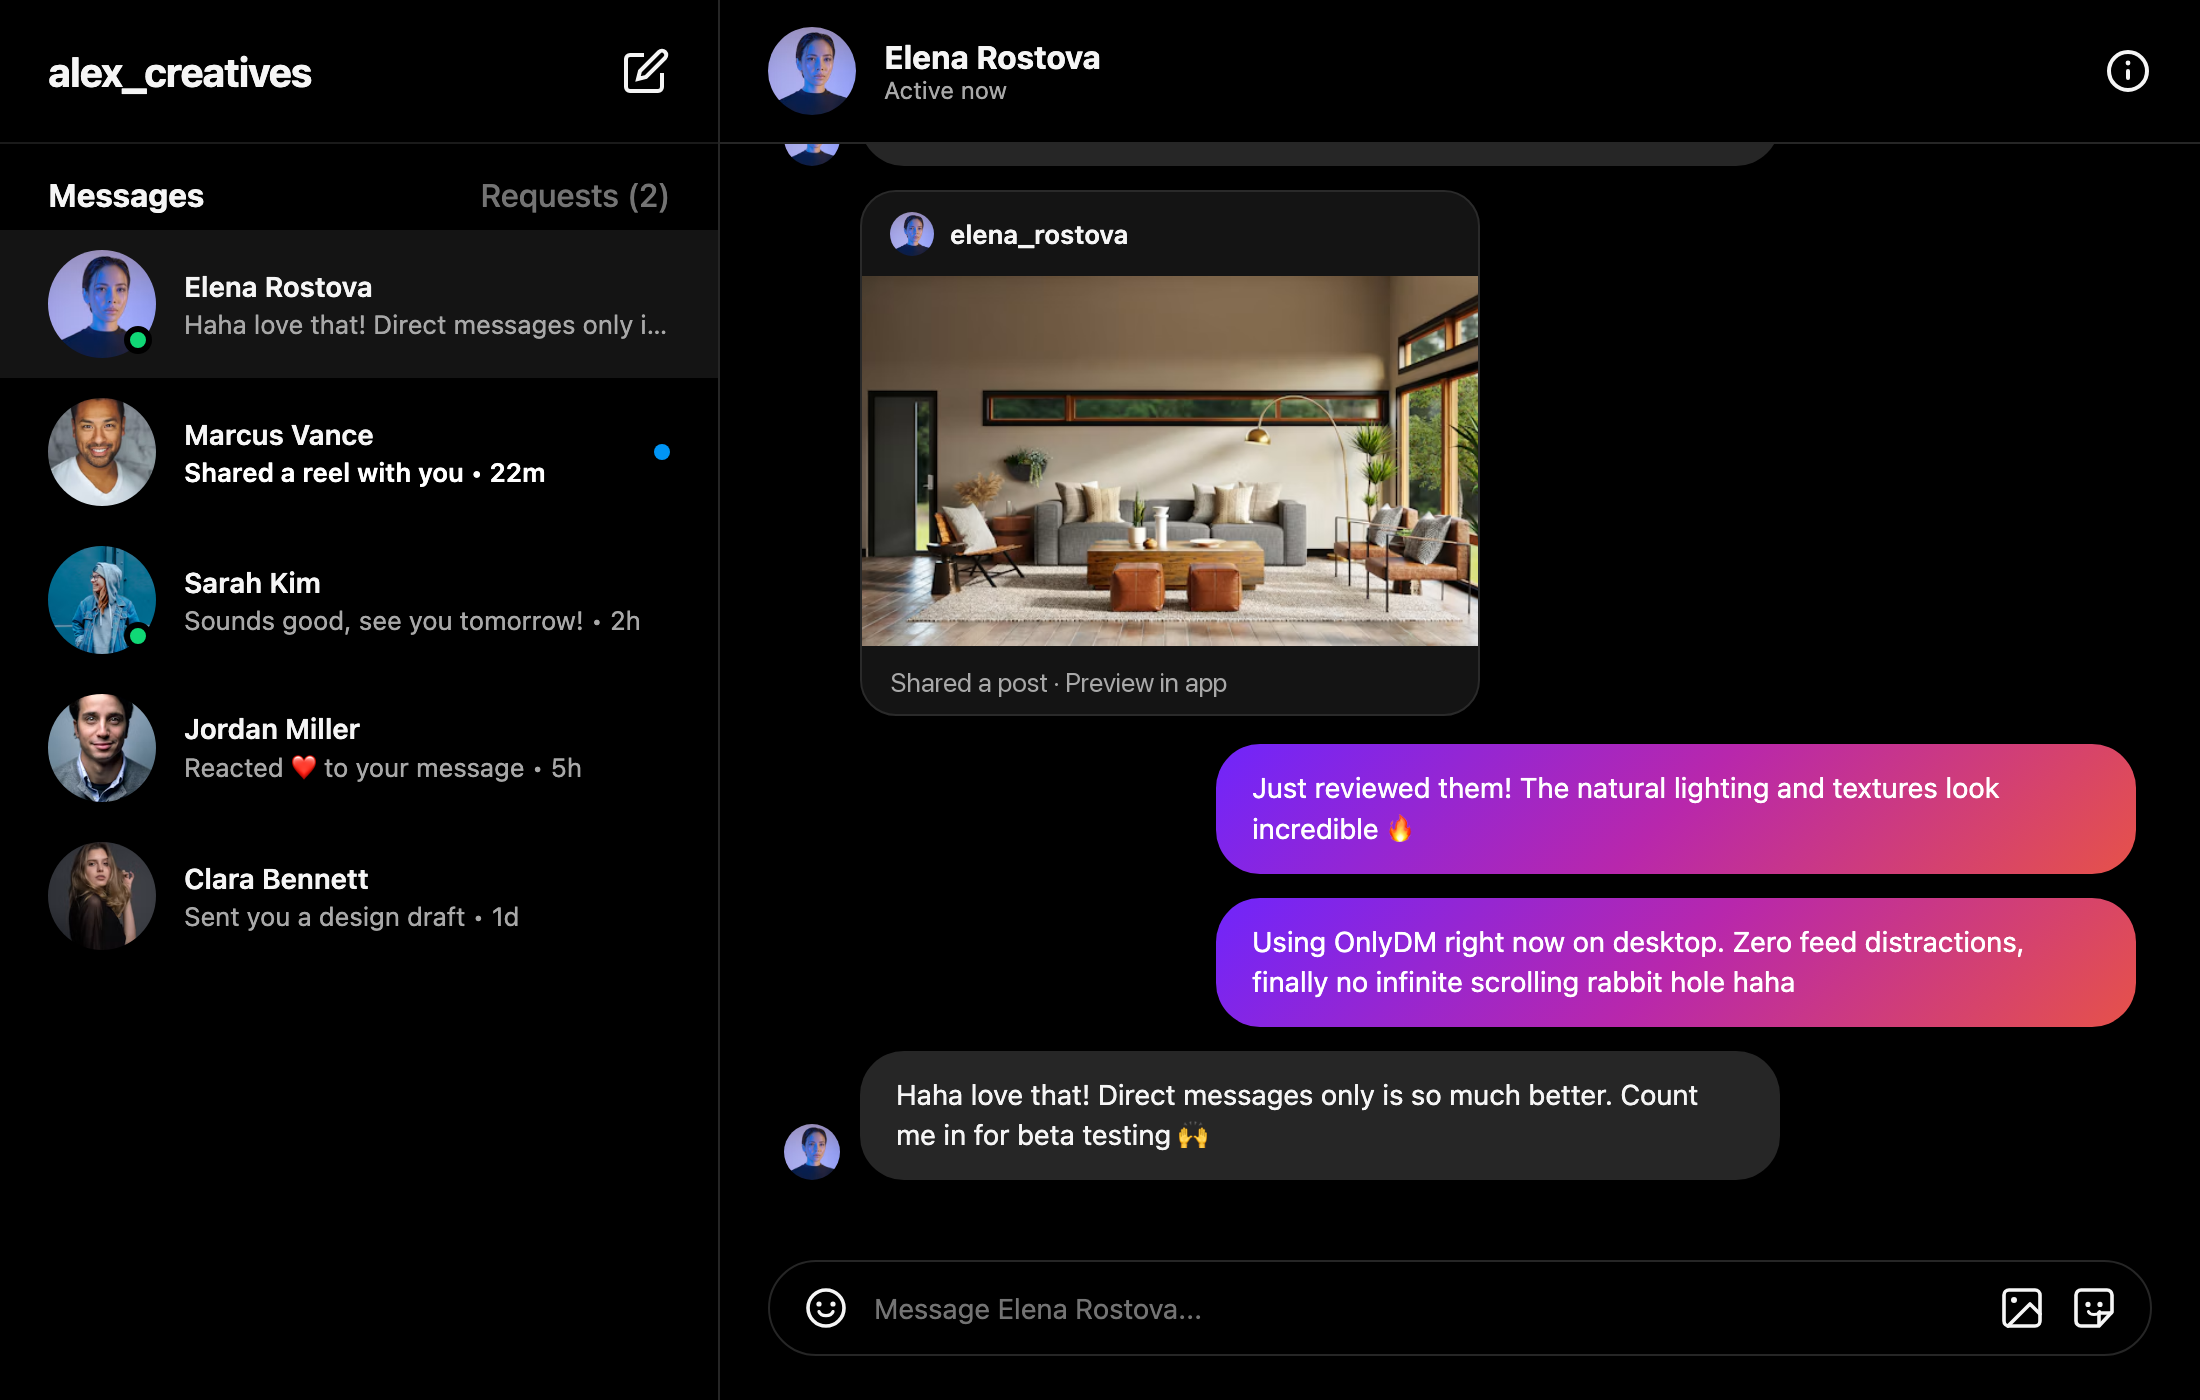
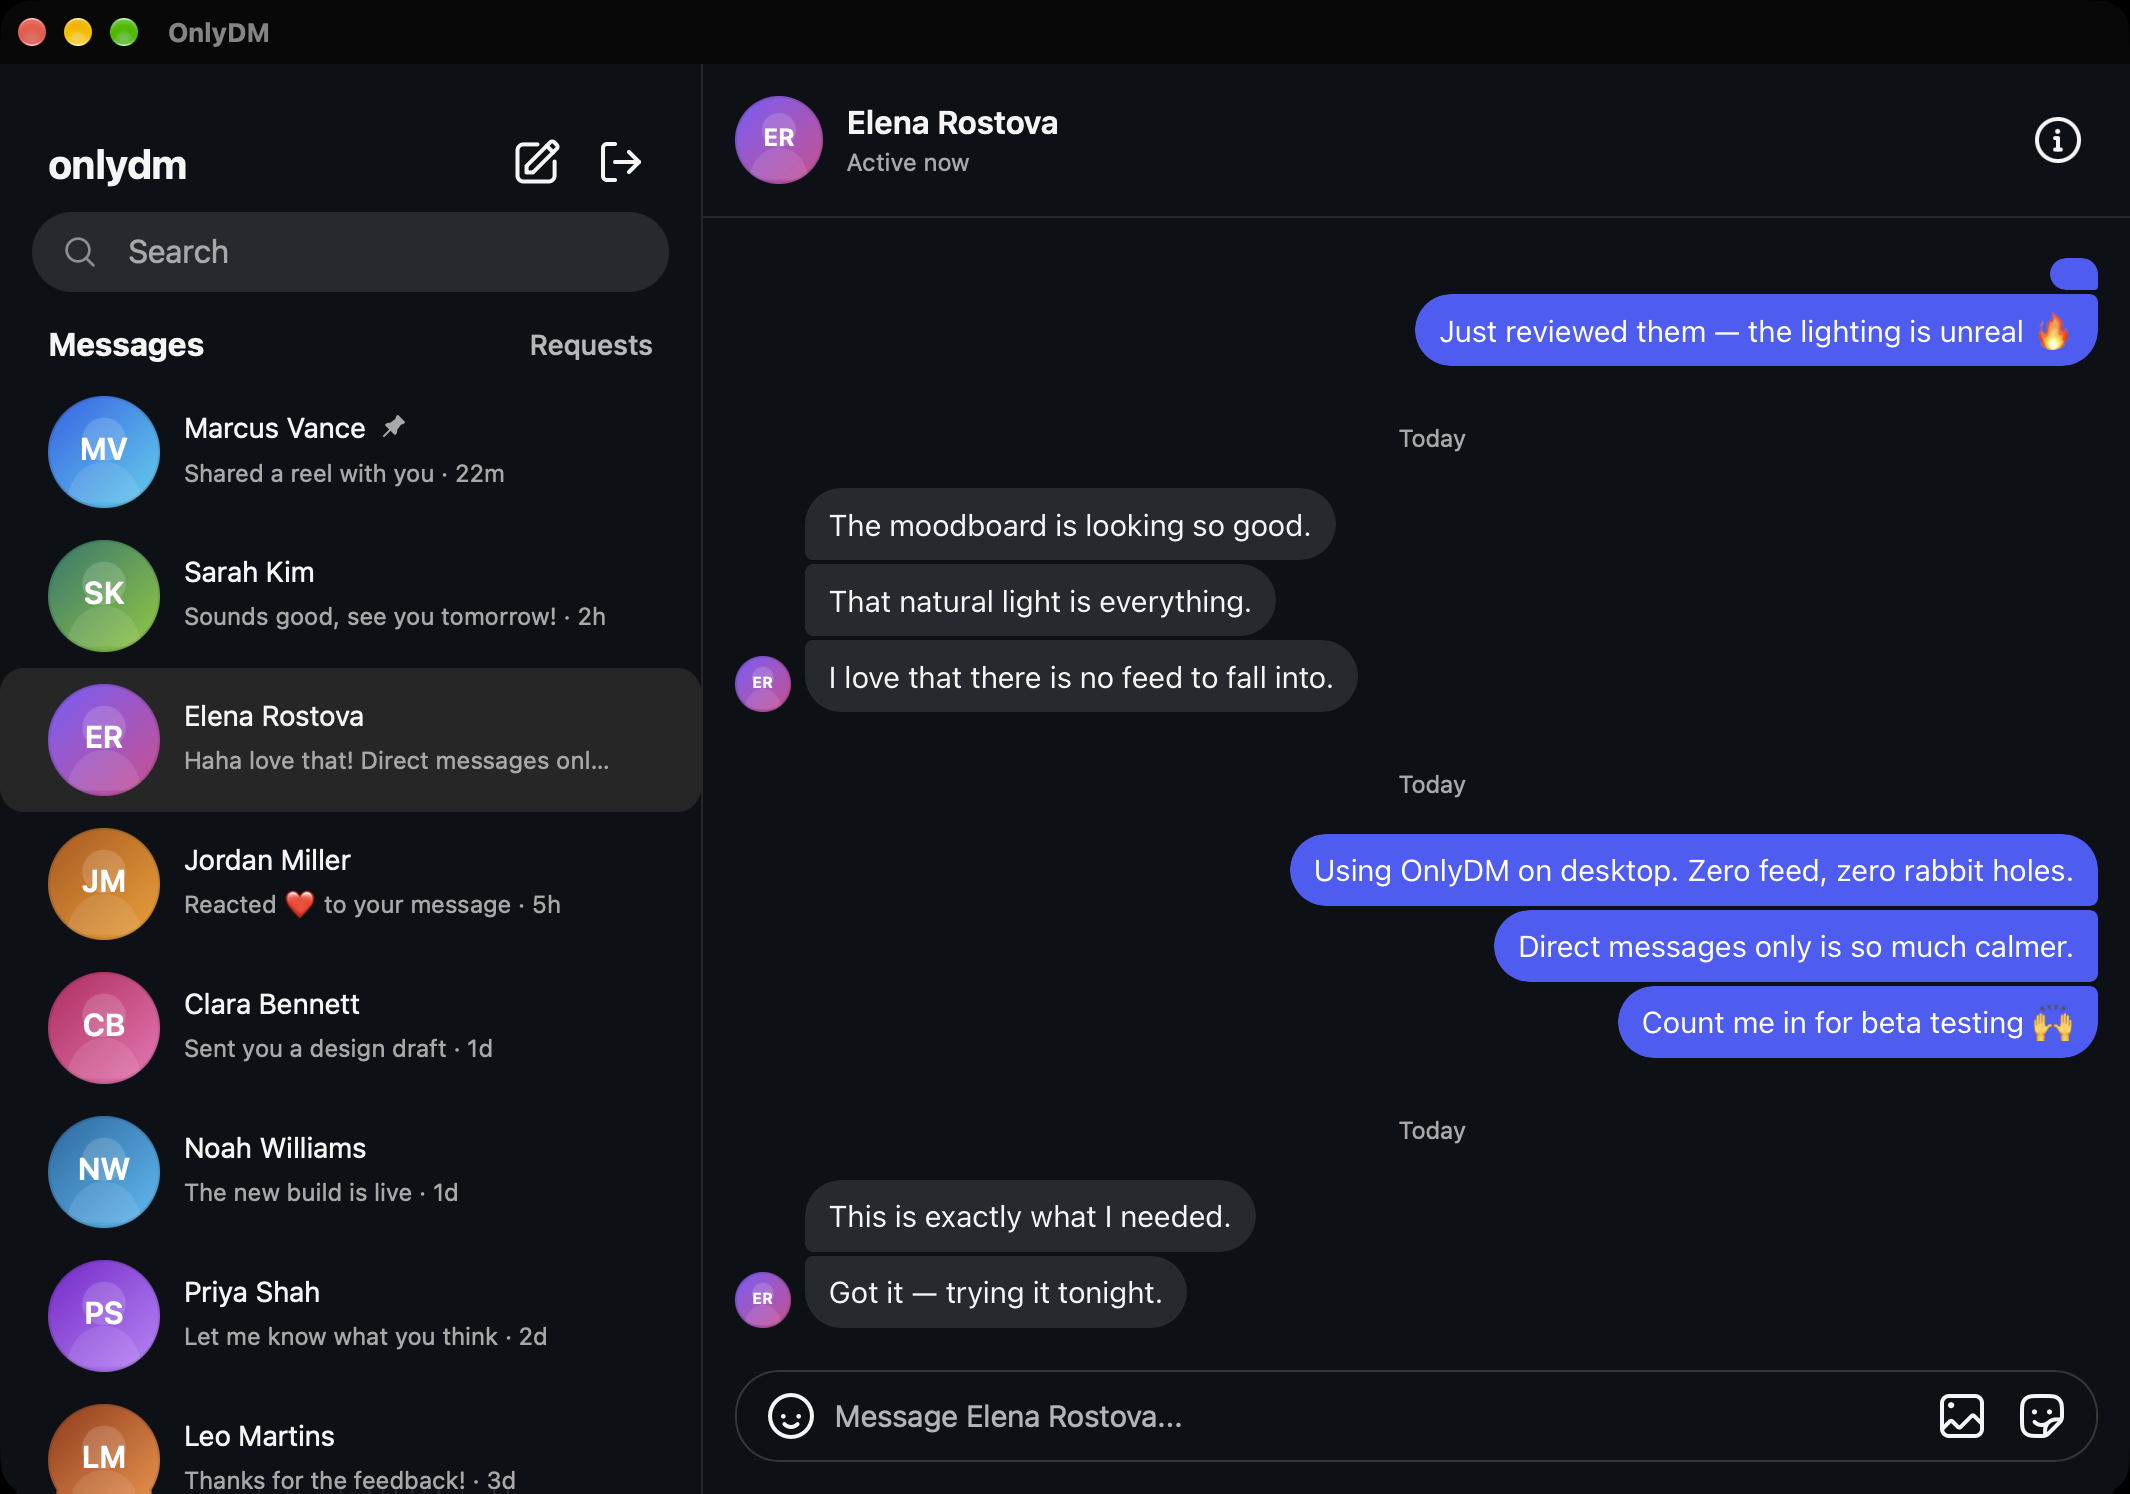
feat(landing): use a real macOS window screenshot
Replace the HTML mock window frame with the sanitized full-window capture. The landing page and README now show the actual macOS title bar, traffic lights, and app window at its native aspect ratio. Update the image dimensions and alt/caption copy.

diff --git a/landing/index.html b/landing/index.html
@@ -368,60 +368,15 @@
     .mockup-container {
       margin-top: 60px;
       position: relative;
-      border-radius: 18px;
-      padding: 8px;
-      background: linear-gradient(180deg, rgba(255, 255, 255, 0.15) 0%, rgba(255, 255, 255, 0.02) 100%);
-      box-shadow: 
+      border-radius: 16px;
+      box-shadow:
         0 30px 80px rgba(0, 0, 0, 0.8),
-        0 0 100px rgba(225, 48, 108, 0.2);
-    }
-
-    .window-frame {
-      background: #0f1118;
-      border-radius: 12px;
-      overflow: hidden;
-      border: 1px solid rgba(255, 255, 255, 0.08);
-      text-align: left;
-    }
-
-    .window-header {
-      height: 44px;
-      background: #141722;
-      border-bottom: 1px solid rgba(255, 255, 255, 0.06);
-      display: flex;
-      align-items: center;
-      padding: 0 16px;
-      position: relative;
-    }
-
-    .traffic-lights {
-      display: flex;
-      gap: 8px;
-    }
-
-    .dot {
-      width: 12px;
-      height: 12px;
-      border-radius: 50%;
-    }
-    .dot-close { background: #ff5f56; }
-    .dot-min { background: #ffbd2e; }
-    .dot-max { background: #27c93f; }
-
-    .window-title {
-      position: absolute;
-      left: 50%;
-      transform: translateX(-50%);
-      font-size: 0.825rem;
-      font-weight: 600;
-      color: var(--text-muted);
-      display: flex;
-      align-items: center;
-      gap: 8px;
+        0 0 100px rgba(225, 48, 108, 0.18);
     }
 
     .screenshot-frame {
       position: relative;
+      border-radius: 12px;
       background: #000000;
       overflow: hidden;
       display: block;
@@ -436,7 +391,6 @@
       width: 100%;
       height: auto;
       display: block;
-      object-fit: cover;
     }
 
     .mockup-caption {
@@ -937,20 +891,9 @@
       .mockup-container {
         margin-top: 36px;
         border-radius: 12px;
-        padding: 4px;
         box-shadow:
           0 20px 50px rgba(0, 0, 0, 0.7),
           0 0 60px rgba(225, 48, 108, 0.08);
-      }
-      .window-header {
-        height: 36px;
-      }
-      .dot {
-        width: 10px;
-        height: 10px;
-      }
-      .window-title {
-        font-size: 0.75rem;
       }
 
       /* Sections */
@@ -1294,29 +1237,16 @@
         <span>🔒 100% Direct Connection</span>
       </div>
 
-      <!-- App Mockup Window -->
+      <!-- Real macOS window capture -->
       <div class="mockup-container">
-        <div class="window-frame">
-          <div class="window-header">
-            <div class="traffic-lights">
-              <span class="dot dot-close"></span>
-              <span class="dot dot-min"></span>
-              <span class="dot dot-max"></span>
-            </div>
-            <div class="window-title">
-              OnlyDM
-            </div>
-          </div>
-
-          <div class="screenshot-frame">
-            <picture>
-              <source srcset="assets/screenshot.webp" type="image/webp" />
-              <img src="assets/screenshot.png" width="2200" height="1400" alt="OnlyDM interface preview showing a direct message conversation with sample contacts" class="screenshot-img" decoding="async" />
-            </picture>
-          </div>
+        <div class="screenshot-frame">
+          <picture>
+            <source srcset="assets/screenshot.webp" type="image/webp" />
+            <img src="assets/screenshot.png" width="2130" height="1494" alt="OnlyDM macOS app showing a direct message conversation with sample contacts" class="screenshot-img" decoding="async" />
+          </picture>
         </div>
       </div>
-      <p class="mockup-caption">Interface preview with sample conversations.</p>
+      <p class="mockup-caption">OnlyDM on macOS with sample conversations.</p>
     </div>
   </section>
 

diff --git a/README.md b/README.md
@@ -31,11 +31,11 @@ Most people open Instagram on their desktop just to reply to an urgent direct me
 **OnlyDM** changes that. Built on **Tauri v2** and **Rust**, it is a fast, distraction-free desktop client dedicated to direct messaging. No explore feed, no endless reels, and no background resource hogs.
 
 <p align="center">
-  <img src="landing/assets/screenshot.png" alt="OnlyDM interface preview with sample conversations" width="850" />
+  <img src="landing/assets/screenshot.png" alt="OnlyDM macOS app showing a direct message conversation with sample contacts" width="850" />
 </p>
 
 <p align="center">
-  <sub>Interface preview with sample conversations.</sub>
+  <sub>OnlyDM on macOS with sample conversations.</sub>
 </p>
 
 ---
